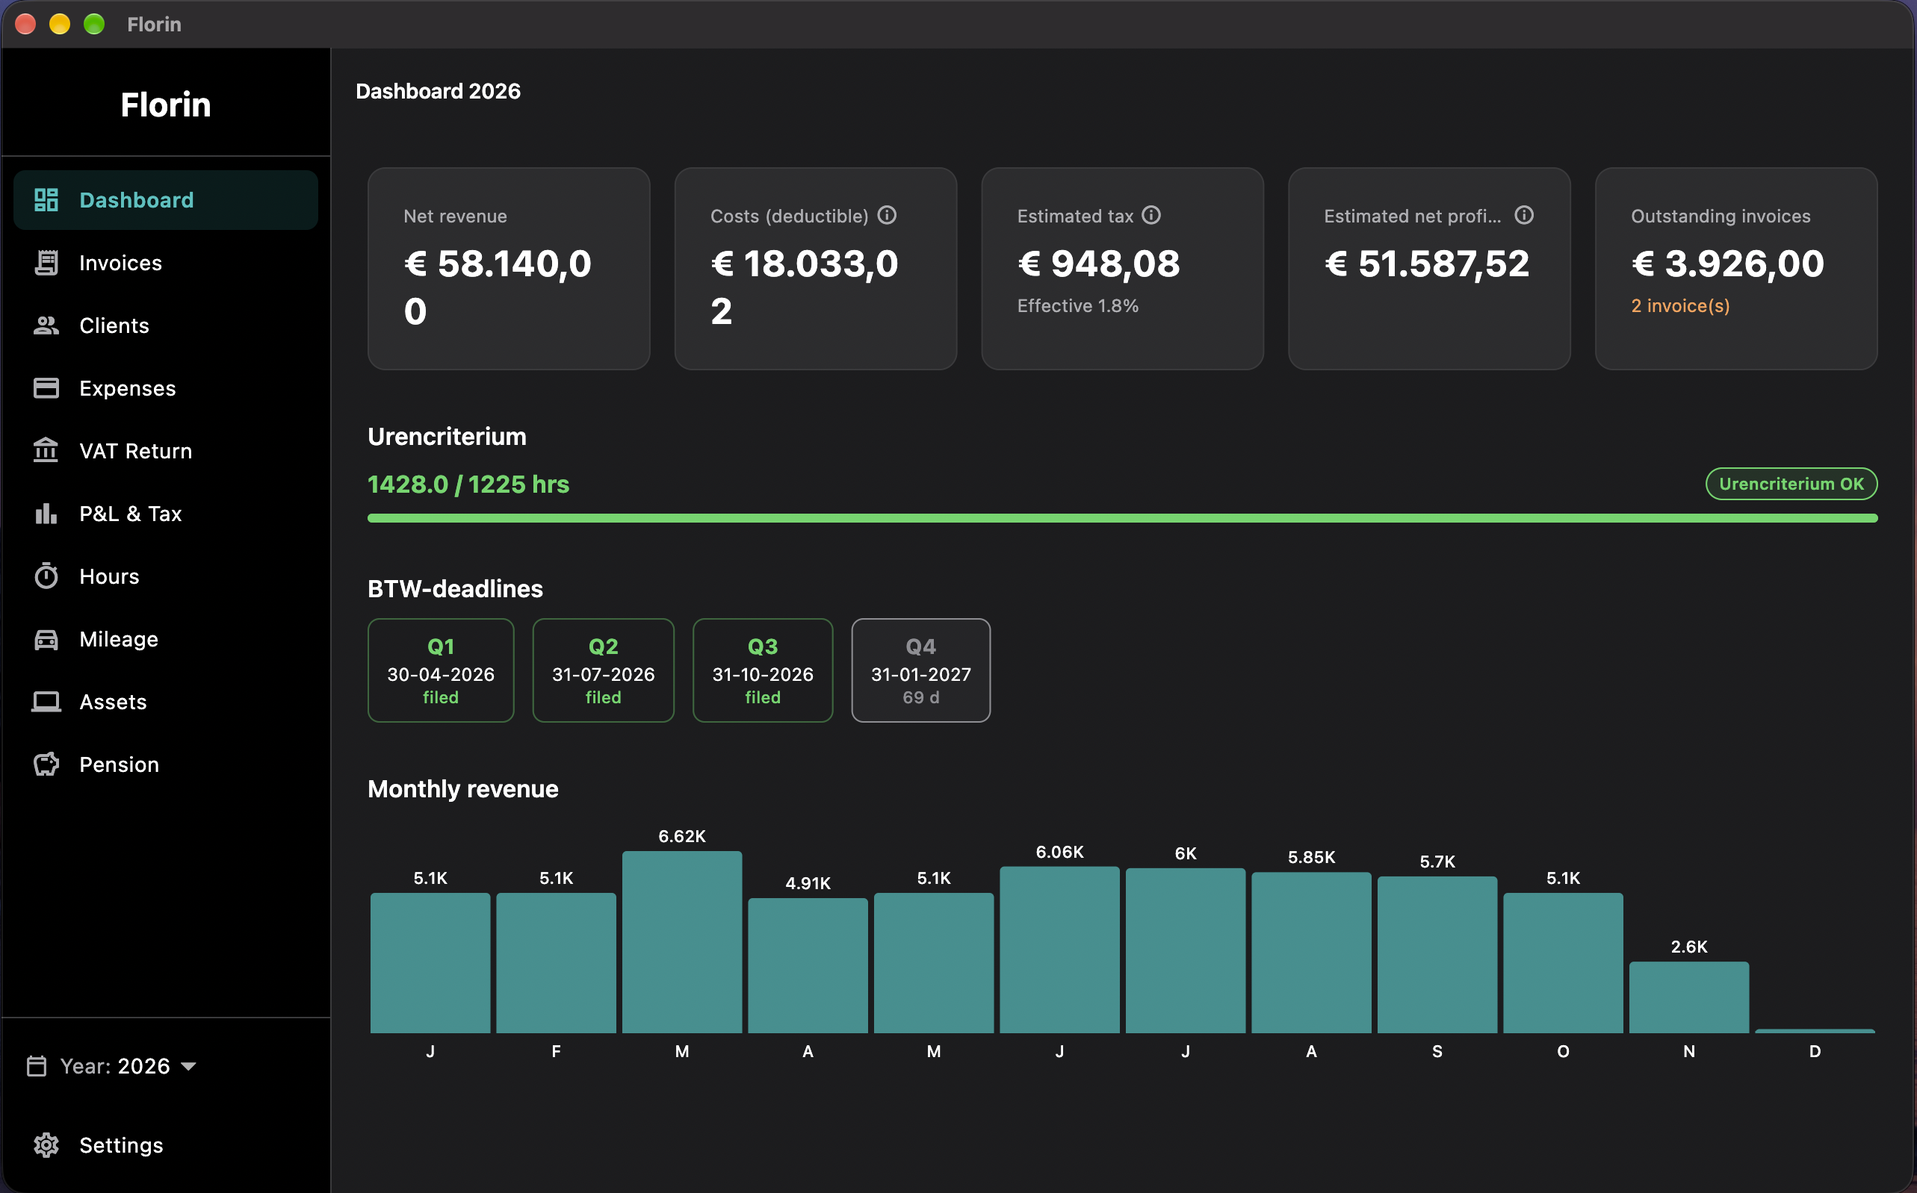
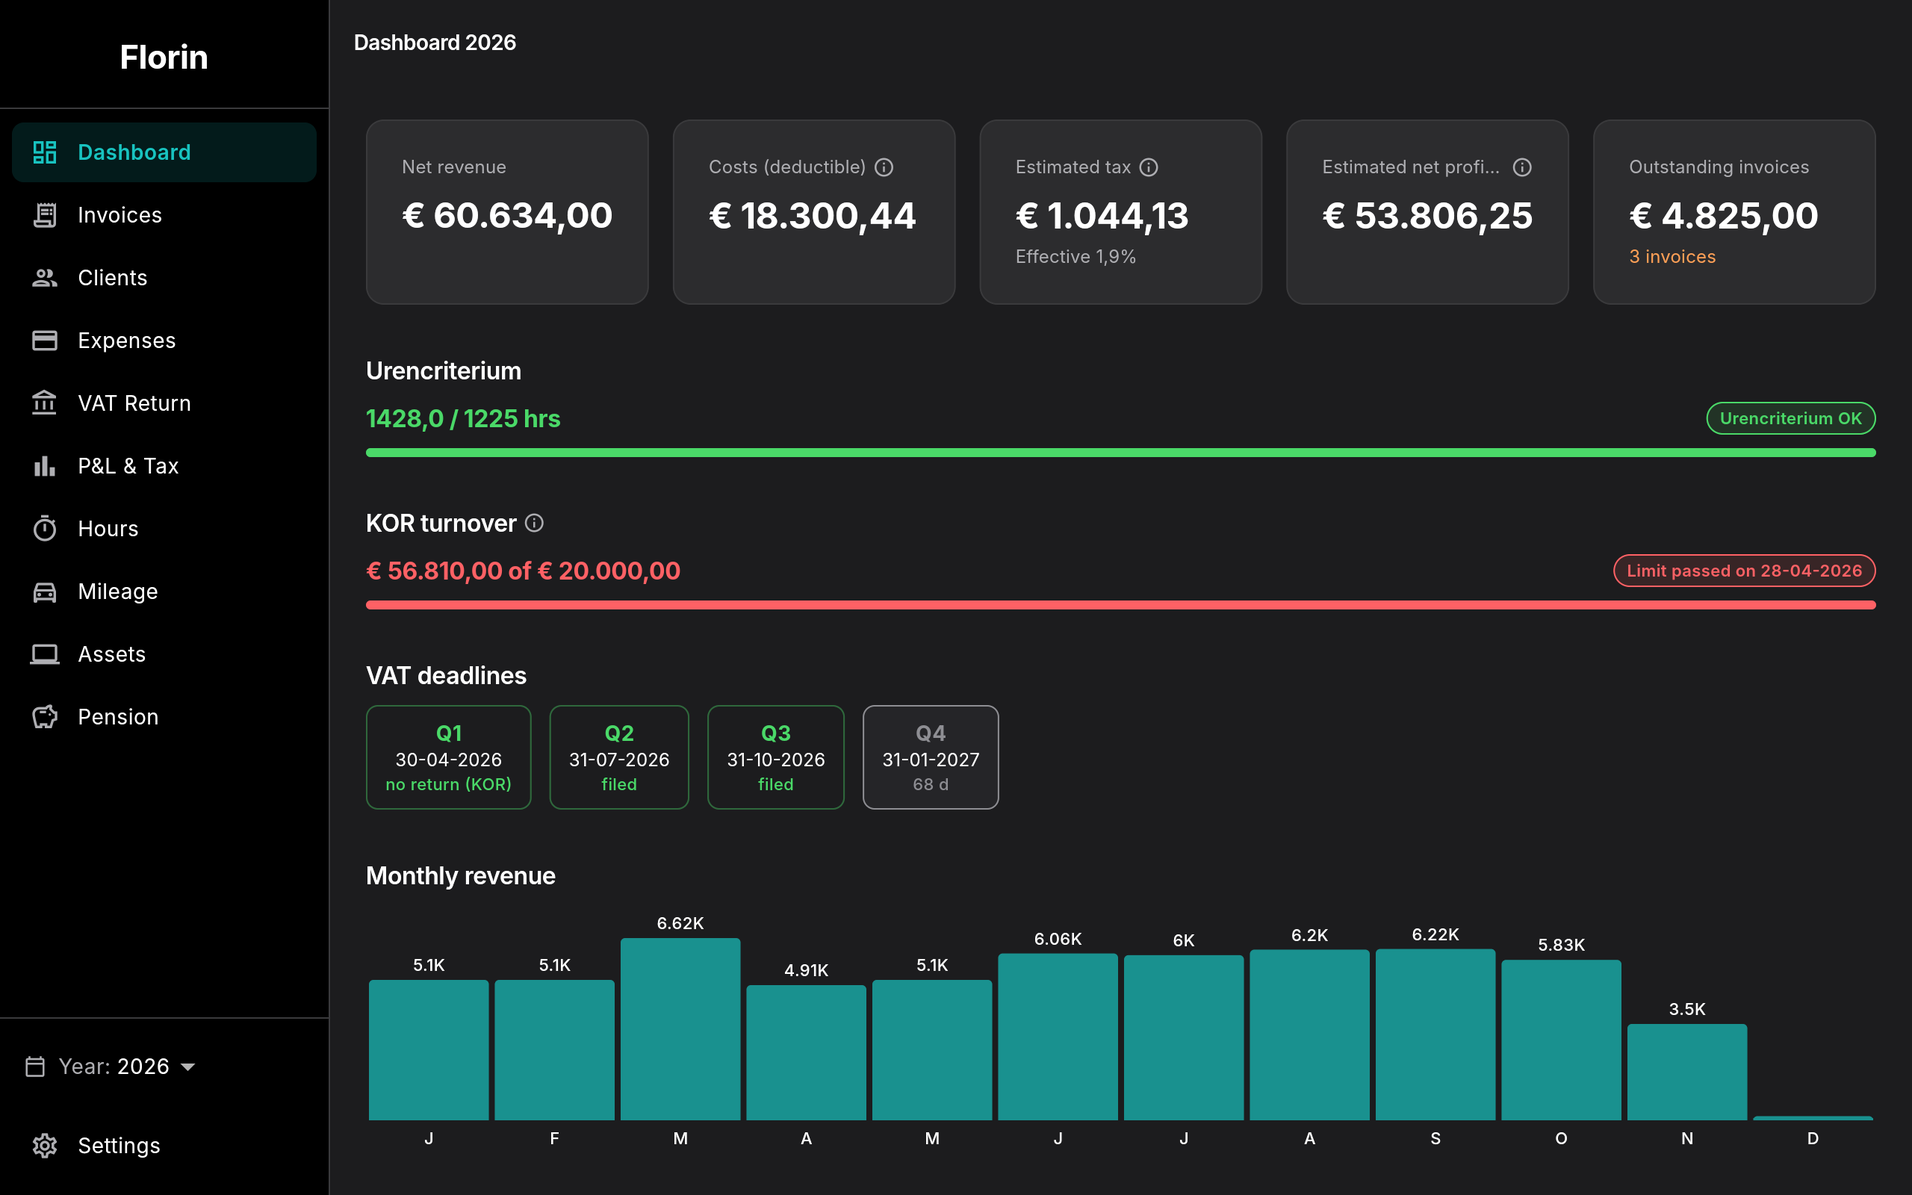
Export into a dated folder, apply the Apple design principles, refresh screenshots
The CSV export wrote its files straight into the folder the user picked, so
exports of different days mixed with each other and with whatever the folder
held. Each export now gets its own folder inside it, named after the year and
the moment of the export, with a suffix when two exports share a second.

Reviewed the new screens against the apple-design skill. Self-billing only
applies to resellers, so its option shows for a merchant of record or an
invoice that already uses it, and is cleared when it would be hidden. The KOR
dates sit in their own titled group, and the end date appears once a start
date exists. The dashboard counts invoices with a real plural instead of
"invoice(s)". AGENTS.md now names the principles that apply to Florin.

The README screenshots show the current dashboard, in dark mode at 2x.

Claude-Session: https://claude.ai/code/session_014FR7Zf1d6Wj7UAaLBSEXMZ

diff --git a/lib/widgets/business_profile_form.dart b/lib/widgets/business_profile_form.dart
@@ -8,6 +8,7 @@ import '../theme/app_spacing.dart';
 import 'date_field.dart';
 import 'form_row.dart';
 import 'validators.dart';
+import 'value_row.dart';
 
 /// The values behind [BusinessProfileForm].
 class BusinessProfileFields {
@@ -144,7 +145,9 @@ class _BusinessProfileFormState extends State<BusinessProfileForm> {
           help: l.settingsStartersaftrekHelp,
           subtitle: l.firstLaunchStartersSubtitle,
         ),
-        const SizedBox(height: AppSpacing.field),
+        const SizedBox(height: AppSpacing.group),
+        SectionLabel(l.settingsKorSection, help: l.settingsKorSectionHelp),
+        const SizedBox(height: AppSpacing.heading),
         FormRow(
           children: [
             // The KOR may have started before the years Florin supports.
@@ -158,25 +161,27 @@ class _BusinessProfileFormState extends State<BusinessProfileForm> {
                   ? l.settingsValidateKorStart
                   : null,
             ),
-            DateField(
-              label: l.settingsKorEnd,
-              help: l.settingsKorEndHelp,
-              value: f.korEnd,
-              firstDate: DateTime(2000),
-              onChanged: (d) => setState(() => f.korEnd = d),
-              validator: (_) {
-                final end = f.korEnd;
-                if (end == null) return null;
-                if (f.korStart == null) return l.settingsValidateKorEndNoStart;
-                if (!end.isAfter(f.korStart!)) {
-                  return l.settingsValidateKorEndBeforeStart;
-                }
-                return end.day != 1 ? l.settingsValidateKorEndDay : null;
-              },
-            ),
+            if (f.korStart == null)
+              const SizedBox.shrink()
+            else
+              DateField(
+                label: l.settingsKorEnd,
+                help: l.settingsKorEndHelp,
+                value: f.korEnd,
+                firstDate: DateTime(2000),
+                onChanged: (d) => setState(() => f.korEnd = d),
+                validator: (_) {
+                  final end = f.korEnd;
+                  if (end == null) return null;
+                  if (!end.isAfter(f.korStart!)) {
+                    return l.settingsValidateKorEndBeforeStart;
+                  }
+                  return end.day != 1 ? l.settingsValidateKorEndDay : null;
+                },
+              ),
           ],
         ),
-        if (f.korStart != null || f.korEnd != null) ...[
+        if (f.korStart != null) ...[
           const SizedBox(height: AppSpacing.tight),
           Align(
             alignment: AlignmentDirectional.centerStart,

diff --git a/lib/l10n/app_localizations.dart b/lib/l10n/app_localizations.dart
@@ -275,7 +275,7 @@ abstract class AppLocalizations {
   /// No description provided for @dashboardInvoiceCount.
   ///
   /// In en, this message translates to:
-  /// **'{count} invoice(s)'**
+  /// **'{count, plural, =1{1 invoice} other{{count} invoices}}'**
   String dashboardInvoiceCount(int count);
 
   /// No description provided for @dashboardUrencriterium.
@@ -1979,7 +1979,7 @@ abstract class AppLocalizations {
   /// No description provided for @settingsExportDescription.
   ///
   /// In en, this message translates to:
-  /// **'Export all {year} data to CSV files, with the VAT return of each quarter by rubriek in whole euros, the ICP list of each quarter and the estimated income tax of the year.'**
+  /// **'Export all {year} data to CSV files, with the VAT return of each quarter by rubriek in whole euros, the ICP list of each quarter and the estimated income tax of the year. Florin puts them in a new folder named after the export date, inside the folder you choose.'**
   String settingsExportDescription(int year);
 
   /// No description provided for @settingsExportButton.
@@ -3986,12 +3986,6 @@ abstract class AppLocalizations {
   /// **'The end of the KOR comes after its start. Check both dates.'**
   String get settingsValidateKorEndBeforeStart;
 
-  /// No description provided for @settingsValidateKorEndNoStart.
-  ///
-  /// In en, this message translates to:
-  /// **'Enter when the KOR started first: an end date only applies to a KOR you took part in.'**
-  String get settingsValidateKorEndNoStart;
-
   /// No description provided for @settingsKorClear.
   ///
   /// In en, this message translates to:
@@ -4129,6 +4123,18 @@ abstract class AppLocalizations {
   /// In en, this message translates to:
   /// **'KOR turnover limit'**
   String get settingsTaxKor;
+
+  /// No description provided for @settingsKorSection.
+  ///
+  /// In en, this message translates to:
+  /// **'Kleineondernemersregeling (KOR)'**
+  String get settingsKorSection;
+
+  /// No description provided for @settingsKorSectionHelp.
+  ///
+  /// In en, this message translates to:
+  /// **'A BTW exemption for businesses with at most € 20.000 turnover in the Netherlands a year. You join and leave it with the Belastingdienst; enter its dates here so Florin follows it.'**
+  String get settingsKorSectionHelp;
 }
 
 class _AppLocalizationsDelegate

diff --git a/lib/screens/invoices/invoice_detail_panel.dart b/lib/screens/invoices/invoice_detail_panel.dart
@@ -307,9 +307,9 @@ class _InvoiceDetailPanelState extends ConsumerState<InvoiceDetailPanel> {
   }
 
   void _setClient(int? id, List<Client> clients) {
+    final c = clients.where((x) => x.id == id).firstOrNull;
     setState(() {
       _clientId = id;
-      final c = _client(clients);
       // A new invoice starts with the treatment that fits the client.
       if (c != null && _isNew) {
         _treatment = c.suggestedVatTreatment(
@@ -317,6 +317,10 @@ class _InvoiceDetailPanelState extends ConsumerState<InvoiceDetailPanel> {
         );
       }
     });
+    // The option is hidden for other clients, so it may not stay ticked.
+    if (_isNew && _selfBilled && !(c?.isMerchantOfRecord ?? false)) {
+      _setSelfBilled(false);
+    }
   }
 
   Future<void> _exportPdf() async {
@@ -593,13 +597,17 @@ class _InvoiceDetailPanelState extends ConsumerState<InvoiceDetailPanel> {
                     ? l.invoiceValidateTreatmentCountry
                     : _korError(t, l),
               ),
-              const SizedBox(height: AppSpacing.field),
-              HelpCheckbox(
-                value: _selfBilled,
-                onChanged: isCredit ? null : _setSelfBilled,
-                title: l.invoiceSelfBilled,
-                help: l.invoiceSelfBilledHelp,
-              ),
+              // Self-billing is a reseller's practice, so the option shows
+              // only there, or on an invoice that already uses it.
+              if (_selfBilled || (client?.isMerchantOfRecord ?? false)) ...[
+                const SizedBox(height: AppSpacing.field),
+                HelpCheckbox(
+                  value: _selfBilled,
+                  onChanged: isCredit ? null : _setSelfBilled,
+                  title: l.invoiceSelfBilled,
+                  help: l.invoiceSelfBilledHelp,
+                ),
+              ],
               const SizedBox(height: AppSpacing.section),
               Text(l.invoiceFieldLines, style: theme.textTheme.titleSmall),
               const SizedBox(height: AppSpacing.heading),

diff --git a/lib/l10n/app_localizations_nl.dart b/lib/l10n/app_localizations_nl.dart
@@ -101,7 +101,13 @@ class AppLocalizationsNl extends AppLocalizations {
 
   @override
   String dashboardInvoiceCount(int count) {
-    return '$count factuur/facturen';
+    String _temp0 = intl.Intl.pluralLogic(
+      count,
+      locale: localeName,
+      other: '$count facturen',
+      one: '1 factuur',
+    );
+    return '$_temp0';
   }
 
   @override
@@ -1025,7 +1031,7 @@ class AppLocalizationsNl extends AppLocalizations {
 
   @override
   String settingsExportDescription(int year) {
-    return 'Exporteer alle gegevens van $year naar CSV-bestanden, met per kwartaal de btw-aangifte per rubriek in hele euro\'s, het ICP-overzicht en de geschatte inkomstenbelasting van het jaar.';
+    return 'Exporteer alle gegevens van $year naar CSV-bestanden, met per kwartaal de btw-aangifte per rubriek in hele euro\'s, het ICP-overzicht en de geschatte inkomstenbelasting van het jaar. Florin zet ze in een nieuwe map met de exportdatum in de naam, in de map die je kiest.';
   }
 
   @override
@@ -2275,10 +2281,6 @@ class AppLocalizationsNl extends AppLocalizations {
       'Het einde van de KOR ligt na het begin. Controleer beide datums.';
 
   @override
-  String get settingsValidateKorEndNoStart =>
-      'Vul eerst in wanneer de KOR begon: een einddatum hoort bij een KOR waaraan je meedeed.';
-
-  @override
   String get settingsKorClear => 'Ik doe niet mee aan de KOR';
 
   @override
@@ -2369,4 +2371,11 @@ class AppLocalizationsNl extends AppLocalizations {
 
   @override
   String get settingsTaxKor => 'Omzetgrens KOR';
+
+  @override
+  String get settingsKorSection => 'Kleineondernemersregeling (KOR)';
+
+  @override
+  String get settingsKorSectionHelp =>
+      'Een btw-vrijstelling voor ondernemers met hoogstens € 20.000 omzet in Nederland per jaar. Je meldt je aan en af bij de Belastingdienst; vul hier de datums in zodat Florin hem volgt.';
 }

diff --git a/lib/l10n/app_localizations_en.dart b/lib/l10n/app_localizations_en.dart
@@ -101,7 +101,13 @@ class AppLocalizationsEn extends AppLocalizations {
 
   @override
   String dashboardInvoiceCount(int count) {
-    return '$count invoice(s)';
+    String _temp0 = intl.Intl.pluralLogic(
+      count,
+      locale: localeName,
+      other: '$count invoices',
+      one: '1 invoice',
+    );
+    return '$_temp0';
   }
 
   @override
@@ -1021,7 +1027,7 @@ class AppLocalizationsEn extends AppLocalizations {
 
   @override
   String settingsExportDescription(int year) {
-    return 'Export all $year data to CSV files, with the VAT return of each quarter by rubriek in whole euros, the ICP list of each quarter and the estimated income tax of the year.';
+    return 'Export all $year data to CSV files, with the VAT return of each quarter by rubriek in whole euros, the ICP list of each quarter and the estimated income tax of the year. Florin puts them in a new folder named after the export date, inside the folder you choose.';
   }
 
   @override
@@ -2265,10 +2271,6 @@ class AppLocalizationsEn extends AppLocalizations {
       'The end of the KOR comes after its start. Check both dates.';
 
   @override
-  String get settingsValidateKorEndNoStart =>
-      'Enter when the KOR started first: an end date only applies to a KOR you took part in.';
-
-  @override
   String get settingsKorClear => 'I do not take part in the KOR';
 
   @override
@@ -2358,4 +2360,11 @@ class AppLocalizationsEn extends AppLocalizations {
 
   @override
   String get settingsTaxKor => 'KOR turnover limit';
+
+  @override
+  String get settingsKorSection => 'Kleineondernemersregeling (KOR)';
+
+  @override
+  String get settingsKorSectionHelp =>
+      'A BTW exemption for businesses with at most € 20.000 turnover in the Netherlands a year. You join and leave it with the Belastingdienst; enter its dates here so Florin follows it.';
 }

diff --git a/lib/services/csv_export_service.dart b/lib/services/csv_export_service.dart
@@ -3,6 +3,7 @@ import 'dart:io';
 import 'package:csv/csv.dart';
 import 'package:drift/drift.dart';
 import 'package:file_picker/file_picker.dart';
+import 'package:intl/intl.dart';
 import 'package:path/path.dart' as p;
 
 import '../db/database.dart';
@@ -215,6 +216,24 @@ class CsvExportService {
     ['Totaal', _euro(t.totalTax)],
   ];
 
+  /// A new folder inside [parent] for one export, named after the year and
+  /// the moment of the export, so exports never mix with each other or with
+  /// what the folder held: `florin_2026_export_2026-11-23_14-30-05`.
+  static Future<Directory> createExportFolder(
+    String parent,
+    int year,
+    DateTime now,
+  ) async {
+    final name =
+        'florin_${year}_export_'
+        '${DateFormat('yyyy-MM-dd_HH-mm-ss').format(now)}';
+    var dir = Directory(p.join(parent, name));
+    for (var n = 2; await dir.exists(); n++) {
+      dir = Directory(p.join(parent, '${name}_$n'));
+    }
+    return dir.create(recursive: true);
+  }
+
   /// Writes the year's files. [quarters] holds the BTW returns for Q1 to Q4;
   /// every quarter gets its files, empty or not.
   Future<String?> exportYear(
@@ -224,10 +243,11 @@ class CsvExportService {
     required TaxResult? incomeTax,
   }) async {
     assert(quarters.length == 4);
-    final dir = await FilePicker.platform.getDirectoryPath(
+    final parent = await FilePicker.platform.getDirectoryPath(
       dialogTitle: dialogTitle,
     );
-    if (dir == null) return null;
+    if (parent == null) return null;
+    final dir = (await createExportFolder(parent, year, DateTime.now())).path;
 
     final invoices =
         await (db.select(db.invoices)

diff --git a/test/services/csv_export_test.dart b/test/services/csv_export_test.dart
@@ -1,7 +1,10 @@
+import 'dart:io';
+
 import 'package:florin/db/database.dart';
 import 'package:florin/services/csv_export_service.dart';
 import 'package:florin/services/vat_service.dart';
 import 'package:flutter_test/flutter_test.dart';
+import 'package:path/path.dart' as p;
 
 Invoice _invoice(
   int id,
@@ -115,5 +118,24 @@ void main() {
     );
     expect(rows, hasLength(2));
     expect(rows[1], ['BE', 'BE0123456789', 500.0, 150.0]);
+  });
+
+  test('each export gets its own folder named after the moment', () async {
+    final parent = await Directory.systemTemp.createTemp('florin_export');
+    addTearDown(() => parent.delete(recursive: true));
+    final at = DateTime(2026, 11, 23, 14, 30, 5);
+    final first = await CsvExportService.createExportFolder(
+      parent.path,
+      2026,
+      at,
+    );
+    final second = await CsvExportService.createExportFolder(
+      parent.path,
+      2026,
+      at,
+    );
+    expect(p.basename(first.path), 'florin_2026_export_2026-11-23_14-30-05');
+    expect(p.basename(second.path), 'florin_2026_export_2026-11-23_14-30-05_2');
+    expect(await first.exists(), isTrue);
   });
 }

diff --git a/AGENTS.md b/AGENTS.md
@@ -213,6 +213,29 @@ elements and primary actions.
 - **Motion is short and interruptible**, and respects the platform's reduce
   motion setting.
 
+The [apple-design skill](https://github.com/emilkowalski/skills/blob/main/skills/apple-design/SKILL.md)
+holds the principles behind these rules. For a desktop bookkeeping app these
+apply most:
+
+- **The common path first, the rest one level deeper.** Show an option where
+  it is relevant, not on every form: self-billing appears for a merchant of
+  record, the KOR end date only matters once a start date exists. An option
+  that is hidden may not stay set.
+- **Group a control with what it affects.** A field's error sits under that
+  field; a rule across fields sits under the part it limits. Related fields
+  share a section with a heading that names them.
+- **Four kinds of feedback**: status (badges, progress), completion (the saved
+  screen closes or shows the result), warning (`NoticeBanner` before a
+  problem) and error (inline, never only on submit).
+- **Confirm only what cannot be undone**, such as issuing an invoice or
+  deleting a record. Everything else saves or reverts without a dialog.
+- **Specific labels over safe ones.** Name an action after its result ("I do
+  not take part in the KOR", "Record"), and a section after its contents.
+- **Wayfinding.** Every page has a title saying where the user is and a back
+  action; nothing traps the user in a state they cannot leave.
+- **Numbers keep one shape.** Amounts, hours and rates use `AppFormat`, stay
+  on one line and shrink rather than wrap.
+
 ## UI rules
 
 - **Help on everything a user fills in or must understand.** Every input,

diff --git a/README.nl.md b/README.nl.md
@@ -30,7 +30,7 @@ Florin houdt je facturen, uitgaven, btw-aangiftes, uren, kilometers, bedrijfsmid
 - **Uitleg waar je hem nodig hebt.** Elk veld en elk fiscaal begrip heeft een korte uitleg onder de muisaanwijzer.
 - **Facturen opgebouwd volgens de btw-regels.** Pdf-facturen bevatten de vermeldingen uit artikel 35a van de Wet op de omzetbelasting, met btw verlegd, intracommunautaire leveringen, diensten buiten de EU en creditnota's die de gecorrigeerde factuur noemen.
 - **Jouw gegevens blijven van jou.** Eén lokaal databasebestand, in een map die je zelf kiest. Zet het in iCloud Drive, OneDrive of Dropbox als back-up.
-- **Klaar voor je aangiftes en je boekhouder.** Exporteer een volledig jaar met één klik naar CSV-bestanden: alle gegevens, de btw-aangifte van elk kwartaal per rubriek in hele euro's zoals het formulier vraagt, het ICP-overzicht van elk kwartaal en de geschatte inkomstenbelasting.
+- **Klaar voor je aangiftes en je boekhouder.** Exporteer een volledig jaar met één klik naar CSV-bestanden, in een nieuwe map met de exportdatum in de naam: alle gegevens, de btw-aangifte van elk kwartaal per rubriek in hele euro's zoals het formulier vraagt, het ICP-overzicht van elk kwartaal en de geschatte inkomstenbelasting.
 - **Gratis en open source** onder de MIT-licentie.
 
 ## Functies

diff --git a/README.md b/README.md
@@ -30,7 +30,7 @@ Florin keeps your invoices, expenses, BTW returns, hours, mileage, assets and pe
 - **Explained as you go.** Every field and every tax term has a short explanation one hover away.
 - **Invoices built from the BTW rules.** PDF invoices include the items listed in article 35a of the Wet op de omzetbelasting, with btw verlegd, intra-Community supplies, services outside the EU and credit notes that name the invoice they correct.
 - **Your data stays yours.** One local database file, in a folder you choose. Keep it in iCloud Drive, OneDrive or Dropbox for backup.
-- **Ready for your returns and your accountant.** Export a full year to CSV files in one click: every record, the BTW return of each quarter by rubriek in whole euros as the form asks, the ICP list of each quarter and the estimated income tax.
+- **Ready for your returns and your accountant.** Export a full year to CSV files in one click, into a new folder named after the export date: every record, the BTW return of each quarter by rubriek in whole euros as the form asks, the ICP list of each quarter and the estimated income tax.
 - **Free and open source** under the MIT license.
 
 ## Features

diff --git a/docs/legal.md b/docs/legal.md
@@ -220,7 +220,8 @@ EU are in no rubriek; see Services to businesses outside the EU above.
 [Belastingdienst, Ik moet btw-aangifte doen: hoe vul ik die in?](https://www.belastingdienst.nl/wps/wcm/connect/nl/btw/content/ik-moet-btw-aangifte-doen-hoe-vul-ik-die-in), read 2026-11-22
 
 Where Florin implements it: `CsvExportService.btwReturnRows` writes one file
-per quarter, `florin_<year>_btw_Q1.csv` to `Q4`, with every rubriek of the form
+per quarter, `florin_<year>_btw_Q1.csv` to `Q4`, inside a new folder
+`florin_<year>_export_<date>_<time>` for each export, with every rubriek of the form
 in whole euros. Amounts owed and their bases round down, voorbelasting (5b)
 rounds up, and 5a is the sum of the rounded BTW amounts, as the form adds
 them. Negative amounts keep their minus sign. The ICP list per quarter,
